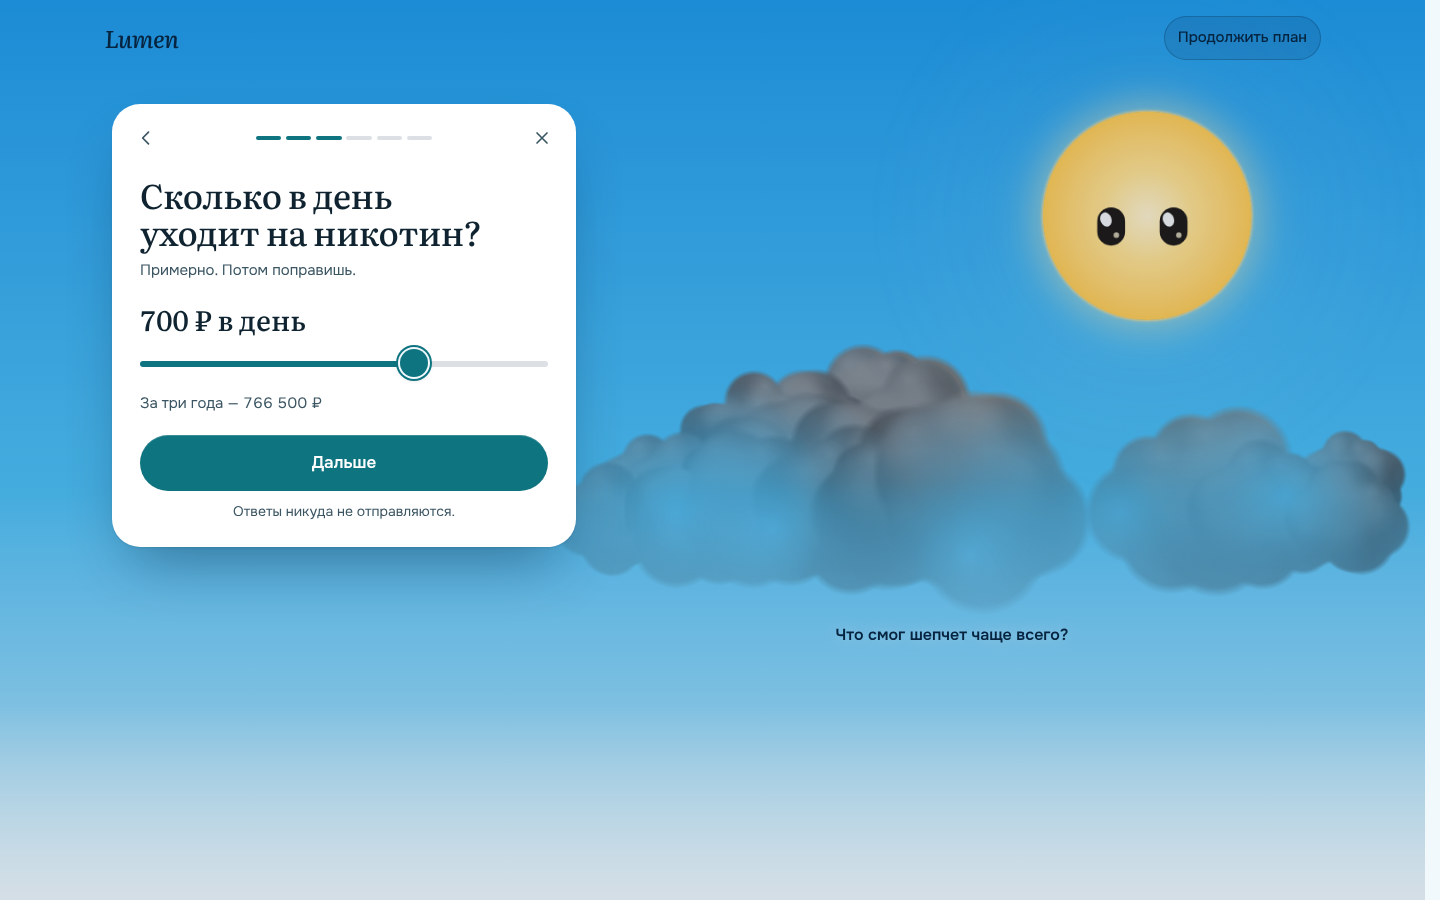
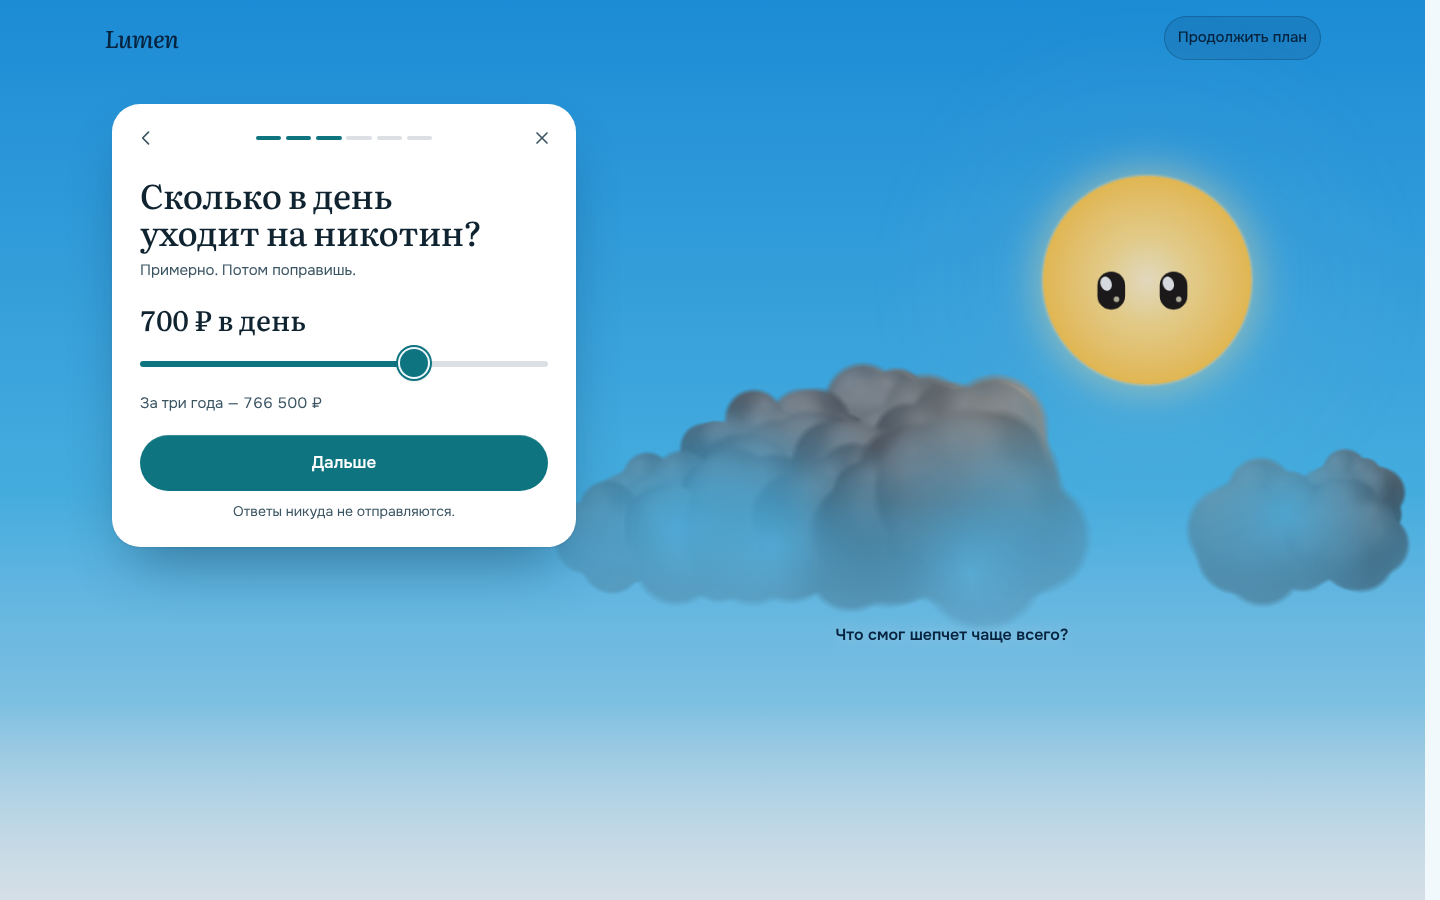
v9: desktop cloud covers the sun on the first frame again
The first-frame thinning and sun offset left the sun mostly uncovered;
restore the v8 look (sun rim behind the cumulus, eyes hidden).

Claude-Session: https://claude.ai/code/session_01CKqe4UyzFgn5AFv8yWGEaJ

diff --git a/design/directions/v9.html b/design/directions/v9.html
@@ -825,7 +825,7 @@ function makeSprites(pal){
 function layout(){
   if (mobile()) { const st = document.getElementById('stage').getBoundingClientRect(), H0 = hero.getBoundingClientRect().height, top = st.top - hero.getBoundingClientRect().top;
     return { cx: .5, cy: (top + 128) / H0, w: 1.15, h: 190 / H0, peak: .5 }; }
-  return { cx: .69, cy: .38, w: .52, h: .46, peak: .66 };
+  return { cx: .69, cy: .4, w: .52, h: .46, peak: .66 };
 }
 function build(){
   rect = hero.getBoundingClientRect();
@@ -856,11 +856,11 @@ function build(){
   const sxp = Math.min(W0 - sr * .9, px + sr * .3);
   const tower = puffs.filter(p => p.layer === 'main' && Math.abs(p.x - sxp) < sr * 1.2);
   const towerTop = tower.length ? Math.min(...tower.map(p => p.y - p.rad)) : topY;
-  const sy = Math.max((mobile() ? 92 : 100) + sr, towerTop + sr * .2);
+  const sy = Math.max((mobile() ? 92 : 100) + sr, towerTop + sr * .2) + (mobile() ? 0 : sr * .6);
   sunEl.style.setProperty('--sun-hide', Math.max(0, (towerTop + sr * .7 - sy) / (sr * 2) * 100 * .1) + "%");
   sunEl.style.setProperty('--sx', sxp + 'px'); sunEl.style.setProperty('--sy', sy + 'px');
   geo = { W0, H0, H, base, R, sx: sxp, sy, sr, glow: css('--smog-glow') };
-  if (!smogFrac && !freed) smogFrac = mobile() ? .12 : .08; // на телефоне Искра выглядывает в просвет, иначе её лицо скрыто тучей
+  if (!smogFrac && !freed) smogFrac = mobile() ? .12 : 0; // на телефоне Искра выглядывает в просвет, иначе её лицо скрыто тучей
   if (smogFrac) dissolveTo(smogFrac, true);
   draw(); noteRects();
 }
